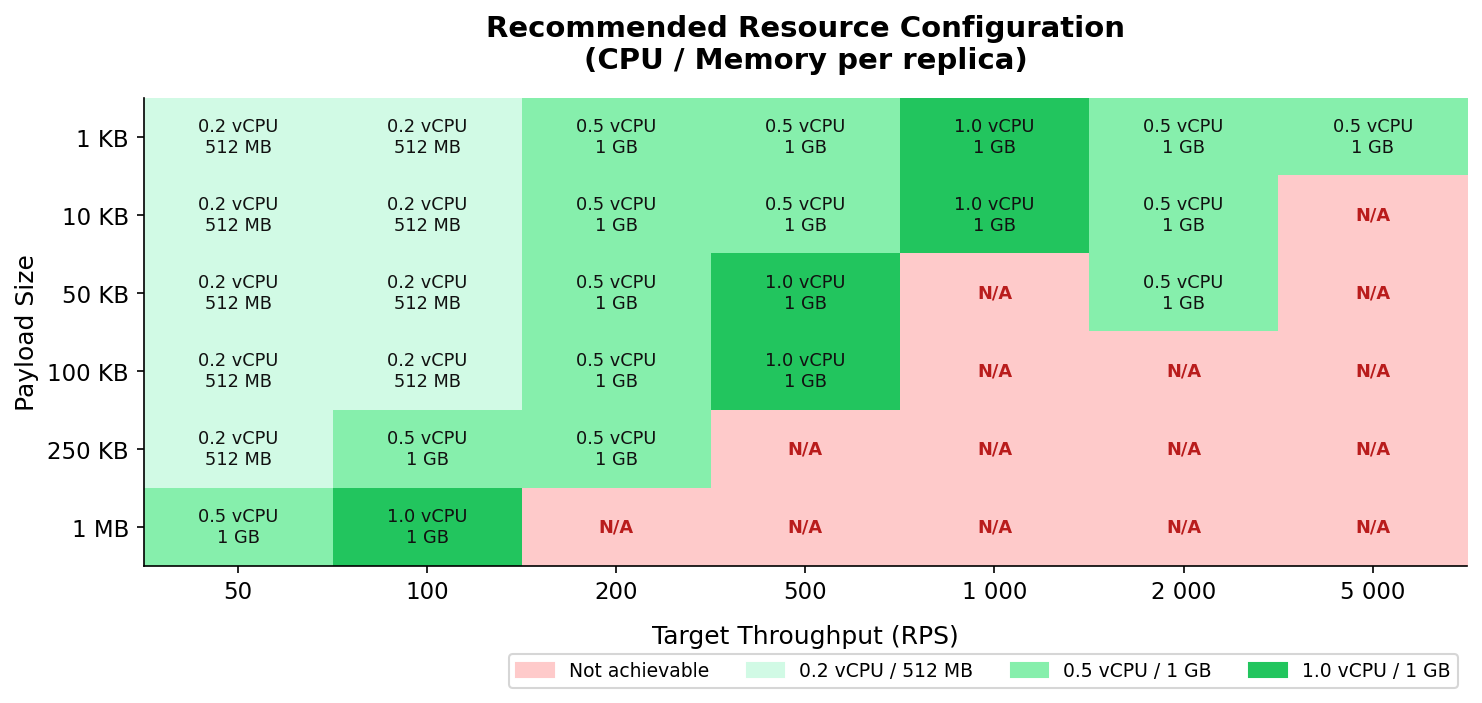
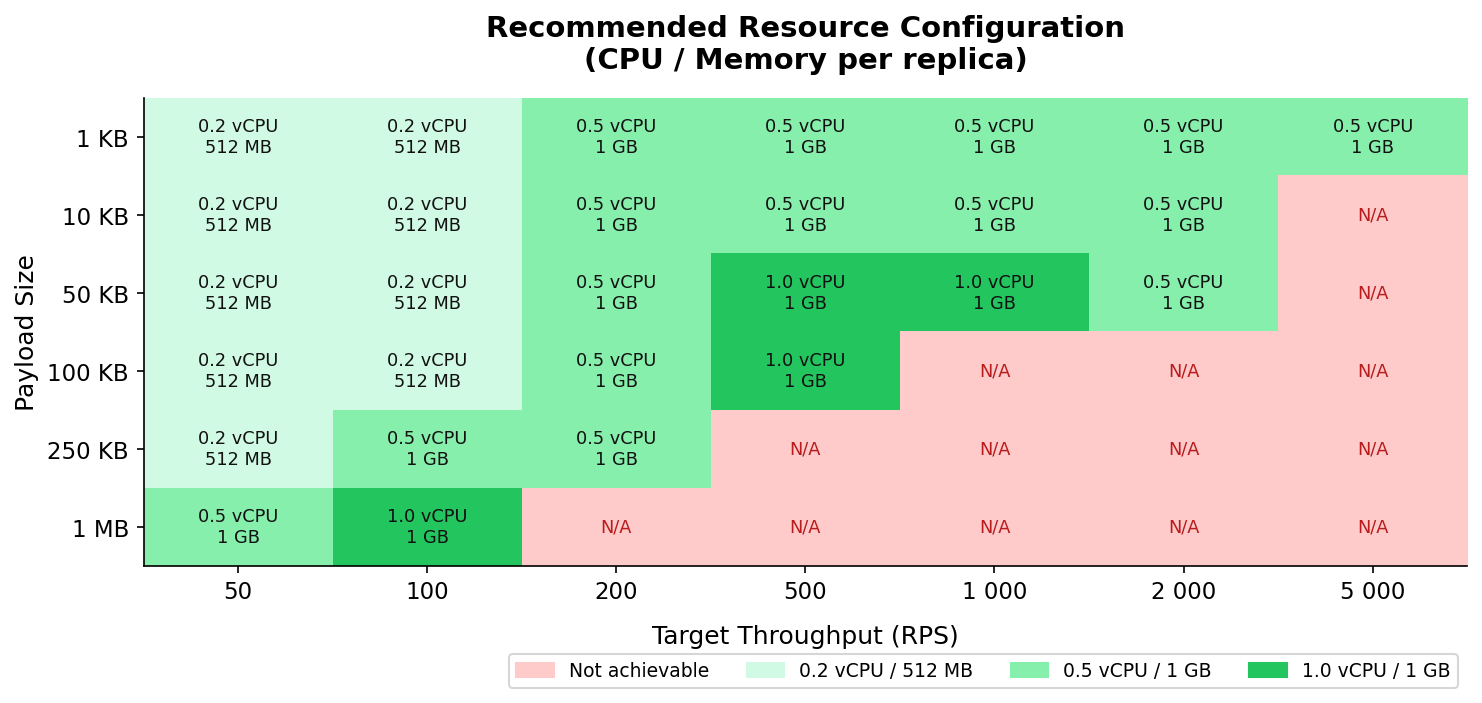
Add new images and update capacity planning documentation for clarity

diff --git a/capacity-planning/passthrough/scripts/generate_guide_charts.py b/capacity-planning/passthrough/scripts/generate_guide_charts.py
@@ -25,7 +25,7 @@ from matplotlib.colors import ListedColormap, BoundaryNorm
 # Paths
 # ---------------------------------------------------------------------------
 SCRIPT_DIR = os.path.dirname(os.path.abspath(__file__))
-OUT = os.path.join(SCRIPT_DIR, "..", "docs", "images")
+OUT = os.path.join(SCRIPT_DIR, "..", "..", "..", "docs", "capacity-planning", "passthrough", "images")
 
 # ---------------------------------------------------------------------------
 # Style
@@ -142,9 +142,9 @@ def make_resource_heatmap():
     # Cols: target RPS   (50, 100, 200, 500, 1 000, 2 000, 5 000)
     rps_labels = ["50", "100", "200", "500", "1 000", "2 000", "5 000"]
     matrix = np.array([
-        [1, 1, 2, 2, 3, 2, 2],  # 1 KB
-        [1, 1, 2, 2, 3, 2, 0],  # 10 KB
-        [1, 1, 2, 3, 0, 2, 0],  # 50 KB
+        [1, 1, 2, 2, 2, 2, 2],  # 1 KB  — 1000 RPS: 1.0→0.5 vCPU (analysis says ≥0.5 sufficient)
+        [1, 1, 2, 2, 2, 2, 0],  # 10 KB — 1000 RPS: 1.0→0.5 vCPU (same reason)
+        [1, 1, 2, 3, 3, 2, 0],  # 50 KB — 1000 RPS: N/A→1.0 vCPU (achievable if 2000 RPS is)
         [1, 1, 2, 3, 0, 0, 0],  # 100 KB
         [1, 2, 2, 0, 0, 0, 0],  # 250 KB
         [2, 3, 0, 0, 0, 0, 0],  # 1 MB

diff --git a/reports/capacity-planning/passthrough/Report.md b/reports/capacity-planning/passthrough/Report.md
@@ -48,7 +48,7 @@ This capacity planning report presents a comprehensive analysis of the WSO2 Inte
 
 4. **High Throughput Limitations**: Throughput levels ≥1000 RPS show significant limitations:  
 
-   - 1000 RPS: Only achievable with small payloads (≤10KB) and high concurrency (≥100-200 users)  
+   - 1000 RPS: Achievable with small payloads (≤10KB) at ≥100-200 users, and 50KB at 500 users
    - 2000 RPS: Achievable with 1KB (≥200 users) and 10KB-50KB (500 users only)  
    - 5000 RPS: Achievable only with 1KB payload and 500 concurrent users
 
@@ -224,7 +224,8 @@ The following charts visualise latency measurements recorded under conditions wi
 - **50 users**: All payloads show N/A - insufficient concurrency to achieve 1000 RPS  
 - **100 users**: Only 1KB payloads achievable; requires 3 replicas for 0.2 CPU, single replica for ≥0.5 CPU  
 - **200+ users**: 1KB and 10KB payloads achievable; 0.2 CPU needs 3 replicas, ≥0.5 CPU achieves single replica  
-- 50KB and larger payloads: Not achievable at 1000 RPS due to latency constraints
+- 50KB payloads: Achievable at 1000 RPS with 500 concurrent users; consistent with 2000 RPS test results
+- 100KB and larger payloads: Not achievable at 1000 RPS due to latency constraints
 
 ---
 
@@ -263,7 +264,7 @@ The following charts visualise latency measurements recorded under conditions wi
 
 - **White zones (1 replica)**: Dominate for lower throughput (50-200 RPS) across most payload sizes  
 - **Blue zones (2-4 replicas)**: Appear primarily at higher throughput with larger payloads or low CPU configurations  
-- **N/A zones**: Concentrate at 1000 RPS with payloads ≥50KB, indicating latency limitations  
+- **N/A zones**: Concentrate at 1000 RPS with payloads ≥100KB, indicating latency limitations
 - **Configuration efficiency**: 0.5 CPU / 1GB provides the best balance - achieving single replica for most scenarios where 0.2 CPU requires scaling  
 - **Payload threshold at 1000 RPS**: Clear boundary where only 1KB and 10KB payloads remain achievable
 
@@ -363,7 +364,7 @@ The following charts visualise latency measurements recorded under conditions wi
 **Performance Characteristics:**
 
 - Severely constrained by concurrency and latency limitations
-- Only small payloads (≤10KB) with high concurrency (≥100 users) succeed
+- Small payloads (≤10KB) achievable with ≥100 users; 50KB achievable with 500 users
 - Most test scenarios show N/A results
 - **Root Cause**: Combination of network latency and Little's Law constraints limits effective throughput
 
@@ -407,7 +408,8 @@ The following charts visualise latency measurements recorded under conditions wi
 | 101-200 RPS | 250KB | 0.5 | 1GB | 1 | 50 |
 | 201-500 RPS | ≤10KB | 0.5 | 1GB | 1 | 50 |
 | 201-500 RPS | 50KB | 1.0 | 1GB | 1 | 50 |
-| 500-1000 RPS | ≤10KB | 1.0 | 1GB | 1 | 100-200 |
+| 500-1000 RPS | ≤10KB | 0.5 | 1GB | 1 | 100-200 |
+| 500-1000 RPS | 50KB | 1.0 | 1GB | 1 | 500 |
 | 1000-2000 RPS | 1KB | 0.5 | 1GB | 1 | 200 |
 | 1000-2000 RPS | 10KB-50KB | 0.5 | 1GB | 1 | 500 |
 | 2000-5000 RPS | 1KB | 0.5 | 1GB | 1 | 500 |

diff --git a/docs/capacity-planning/passthrough/CapacityGuide.md b/docs/capacity-planning/passthrough/CapacityGuide.md
@@ -94,8 +94,9 @@ Select the row that best matches your target throughput and payload size. All co
 | 201–500 RPS       | 50 KB        | 1.0 vCPU        | 1 GB               | 1                 |
 | 201–500 RPS       | 100 KB       | 1.0 vCPU        | 1 GB               | 1                 |
 | 201–500 RPS       | 250 KB+      | Not achievable  | —                  | —                 |
-| 501–1000 RPS      | Up to 10 KB  | 1.0 vCPU        | 1 GB               | 1                 |
-| 501–1000 RPS      | 50 KB+       | Not achievable  | —                  | —                 |
+| 501–1000 RPS      | Up to 10 KB  | 0.5 vCPU        | 1 GB               | 1                 |
+| 501–1000 RPS      | 50 KB        | 1.0 vCPU        | 1 GB               | 1                 |
+| 501–1000 RPS      | 100 KB+      | Not achievable  | —                  | —                 |
 | 1001–2000 RPS     | 1 KB         | 0.5 vCPU        | 1 GB               | 1                 |
 | 1001–2000 RPS     | 10–50 KB     | 0.5 vCPU        | 1 GB               | 1                 |
 | 1001–2000 RPS     | 100 KB+      | Not achievable  | —                  | —                 |
